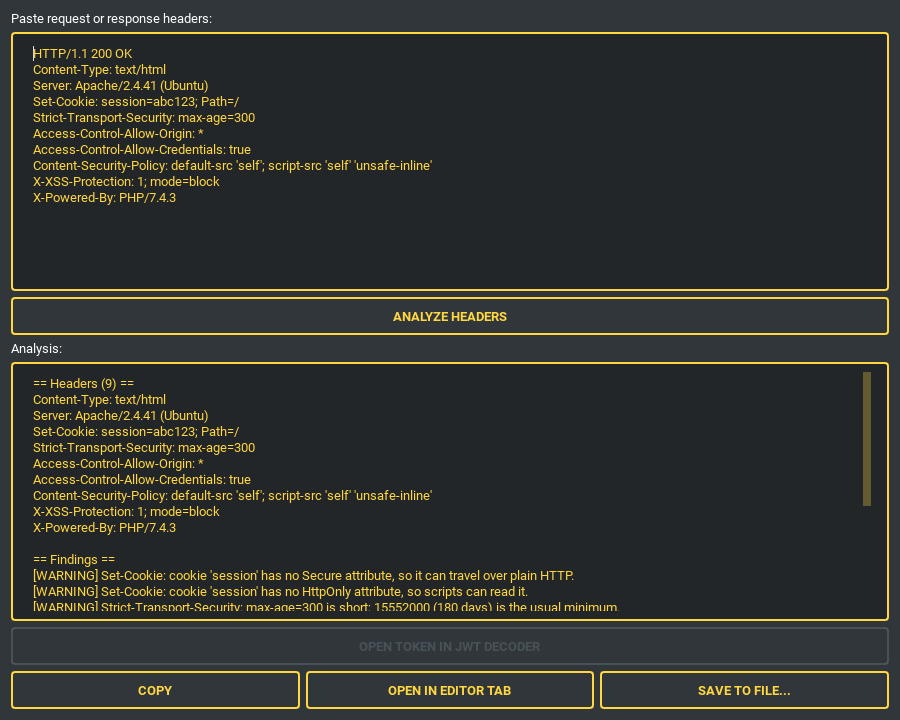
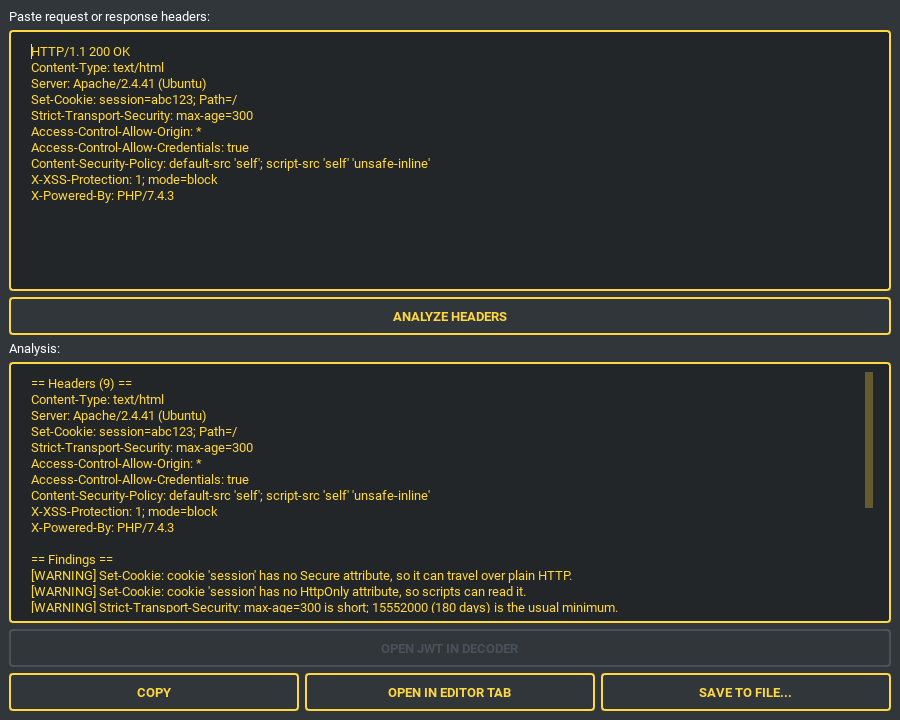
Word the JWT and status hand-over buttons alike and plainly

Changed region(s): [[0.0, 0.0, 0.9956, 1.0]]

diff --git a/pybreeze/extend_multi_language/extend_traditional_chinese.py b/pybreeze/extend_multi_language/extend_traditional_chinese.py
@@ -567,7 +567,7 @@ pybreeze_traditional_chinese_word_dict = {
     "response_analyze_button": "分析",
     "response_output_label": "分析結果：",
     "response_open_jwt_button": "在解碼器開啟 JWT",
-    "response_open_status_button": "在參考開啟狀態碼",
+    "response_open_status_button": "查詢狀態碼",
     "response_open_headers_button": "在分析器開啟標頭",
     "response_open_body_button": "在 JSON 格式化開啟內容",
     "response_empty_hint": "請先在上方貼上回應，再按分析。",
@@ -594,7 +594,7 @@ pybreeze_traditional_chinese_word_dict = {
     "header_analyzer_empty_hint": "請先在上方貼上標頭，再按分析。",
     "header_analyzer_level_warning": "警告",
     "header_analyzer_level_info": "資訊",
-    "header_analyzer_open_jwt_button": "在 JWT 解碼器開啟權杖",
+    "header_analyzer_open_jwt_button": "在解碼器開啟 JWT",
     # HTTP 標頭分析器 — 發現（{header} 為標頭名稱，{detail} 為其值）
     "header_finding_duplicate_header":
         "{header}：送出 {detail} 次，接收端會把這些值合併成一個。",

diff --git a/pybreeze/extend_multi_language/extend_english.py b/pybreeze/extend_multi_language/extend_english.py
@@ -603,7 +603,7 @@ pybreeze_english_word_dict = {
     "response_analyze_button": "Analyze",
     "response_output_label": "Analysis:",
     "response_open_jwt_button": "Open JWT in decoder",
-    "response_open_status_button": "Open status in reference",
+    "response_open_status_button": "Look up the status code",
     "response_open_headers_button": "Open headers in analyzer",
     "response_open_body_button": "Open body in JSON format",
     "response_empty_hint": "Paste a response above, then click analyze.",
@@ -630,7 +630,7 @@ pybreeze_english_word_dict = {
     "header_analyzer_empty_hint": "Paste a header block above, then click analyze.",
     "header_analyzer_level_warning": "WARNING",
     "header_analyzer_level_info": "INFO",
-    "header_analyzer_open_jwt_button": "Open token in JWT decoder",
+    "header_analyzer_open_jwt_button": "Open JWT in decoder",
     # HTTP Header Analyzer — Findings ({header} is the header, {detail} its value)
     "header_finding_duplicate_header":
         "{header}: sent {detail} times; the receiver joins the values into one.",

diff --git a/test/test_utils/test_language_parity.py b/test/test_utils/test_language_parity.py
@@ -109,6 +109,17 @@ class TestLabelsAreTold:
             assert EN[dock] == EN[tab]
             assert ZH[dock] == ZH[tab]
 
+    def test_the_same_action_reads_the_same_on_every_tab(self):
+        # Header Analyzer said "Open token in JWT decoder", Response Inspector
+        # "Open JWT in decoder", for the same hand-over
+        for words in (EN, ZH):
+            assert words["header_analyzer_open_jwt_button"] == words["response_open_jwt_button"]
+
+    def test_a_hand_over_button_does_not_name_a_tab_that_is_not_there(self):
+        # "Open status in reference": no tab is called Reference (the HTTP Status tab looks codes up)
+        assert "reference" not in EN["response_open_status_button"].lower()
+        assert "參考" not in ZH["response_open_status_button"]
+
     def test_no_string_holds_an_ip_address(self):
         # The SSH host placeholder's example was a private address (CLAUDE.md: no
         # hardcoded IPs or hostnames outside documented loopback)

diff --git a/docs/updates/2026-09-c.md b/docs/updates/2026-09-c.md
@@ -141,3 +141,13 @@ Continues [2026-09-b.md](2026-09-b.md), which passed the batch size limit. Index
 - **Change**: its `url/ai_code_review_gui.py` section says the method starts on POST (`DEFAULT_METHOD`), that POST and PUT (`METHODS_WITH_A_BODY`) carry the code as pasted in the form field `code` and send nothing when it is empty, and that GET and DELETE send the URL alone; the `cot_code_review_gui.py` line says an empty box sends nothing.
 - **Files**: `architecture_explore.md`
 - **Open items**: none.
+
+## U-20260925-16 · 2026-09-25 · One wording for the JWT hand-over, and a status button that says what it does · #fix #tools #i18n
+
+- **What**: the same hand-over to the JWT decoder read "Open token in JWT decoder" (在 JWT 解碼器開啟權杖) on Header Analyzer and "Open JWT in decoder" (在解碼器開啟 JWT) on Response Inspector. Response Inspector's status button read "Open status in reference" (在參考開啟狀態碼), naming no tab: the HTTP Status tab looks the code up.
+- **Fix**: Header Analyzer's button reads "Open JWT in decoder" (在解碼器開啟 JWT), like Response Inspector's; the status button reads "Look up the status code" (查詢狀態碼).
+- **Tests**: `test_the_same_action_reads_the_same_on_every_tab` and `test_a_hand_over_button_does_not_name_a_tab_that_is_not_there` in `test_language_parity.py` (`TestLabelsAreTold`); both failed before the change. With the header analyzer and response inspector tests, 114 pass. The full suite at `237d60d` passed (2443 passed, 15 skipped).
+- **Result / numbers**: 2464 tests in 136 files. `ruff check` clean.
+- **Docs**: `images/tool_header_analyzer.png` and `images/tool_response_inspector.png` redone at 900×720 under dark_amber with the same input, rebuilt from the images; rendered inside a container like the other images redone since U-20260924-313, so their content sits 2 pixels further up and left than in the old top-level grabs.
+- **Files**: `pybreeze/extend_multi_language/extend_english.py`, `pybreeze/extend_multi_language/extend_traditional_chinese.py`, `test/test_utils/test_language_parity.py`, `images/tool_header_analyzer.png`, `images/tool_response_inspector.png`, `architecture_explore.md`
+- **Open items**: none.

diff --git a/docs/updates/README.md b/docs/updates/README.md
@@ -58,6 +58,7 @@ In the same commit: delete the item from `progress.md`, add a `#done` entry here
 
 | ID | Date | Title | Tags | Batch |
 |---|---|---|---|---|
+| U-20260925-16 | 2026-09-25 | One wording for the JWT hand-over, and a status button that says what it does | #fix #tools #i18n | [2026-09-c](2026-09-c.md) |
 | U-20260925-15 | 2026-09-25 | The architecture map on what the AI review panels send | #docs #ai | [2026-09-c](2026-09-c.md) |
 | U-20260925-14 | 2026-09-25 | AI Code Review and CoT Code Review send no empty code, and the code as pasted | #fix #ai #i18n | [2026-09-c](2026-09-c.md) |
 | U-20260925-13 | 2026-09-25 | Say what CoT Code Review and Skill Send send | #docs #ai #readme | [2026-09-c](2026-09-c.md) |
@@ -418,4 +419,4 @@ In the same commit: delete the item from `progress.md`, add a `#done` entry here
 |---|---|---:|
 | [2026-09.md](2026-09.md) | 2026-09 | 218 |
 | [2026-09-b.md](2026-09-b.md) | 2026-09 | 120 |
-| [2026-09-c.md](2026-09-c.md) | 2026-09 | 15 |
+| [2026-09-c.md](2026-09-c.md) | 2026-09 | 16 |
